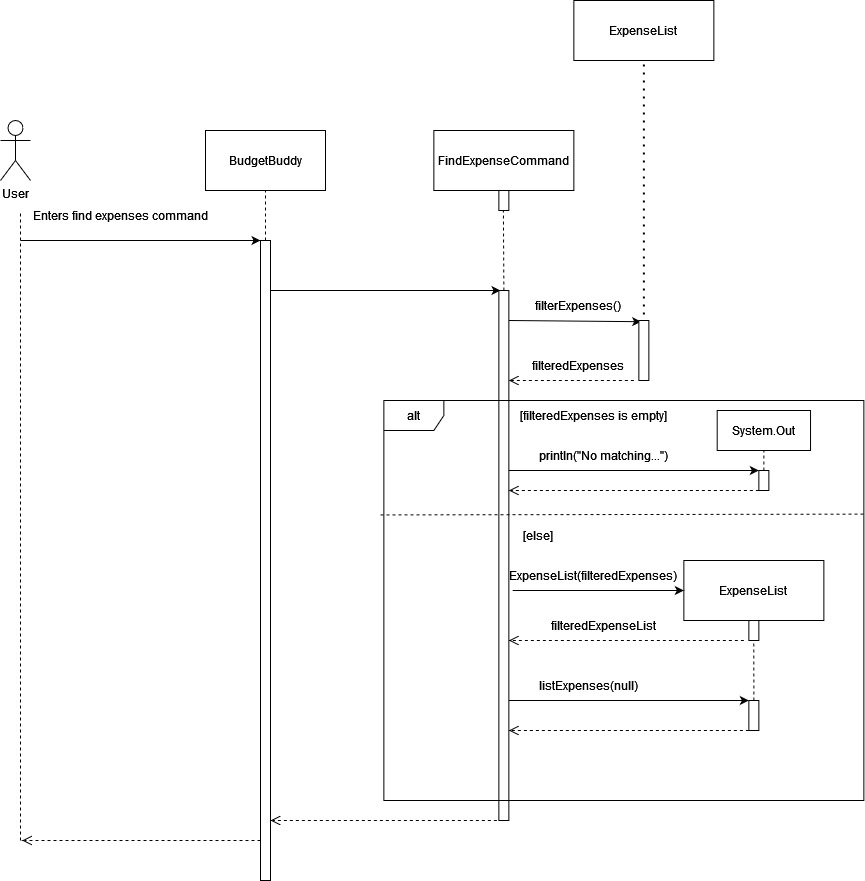
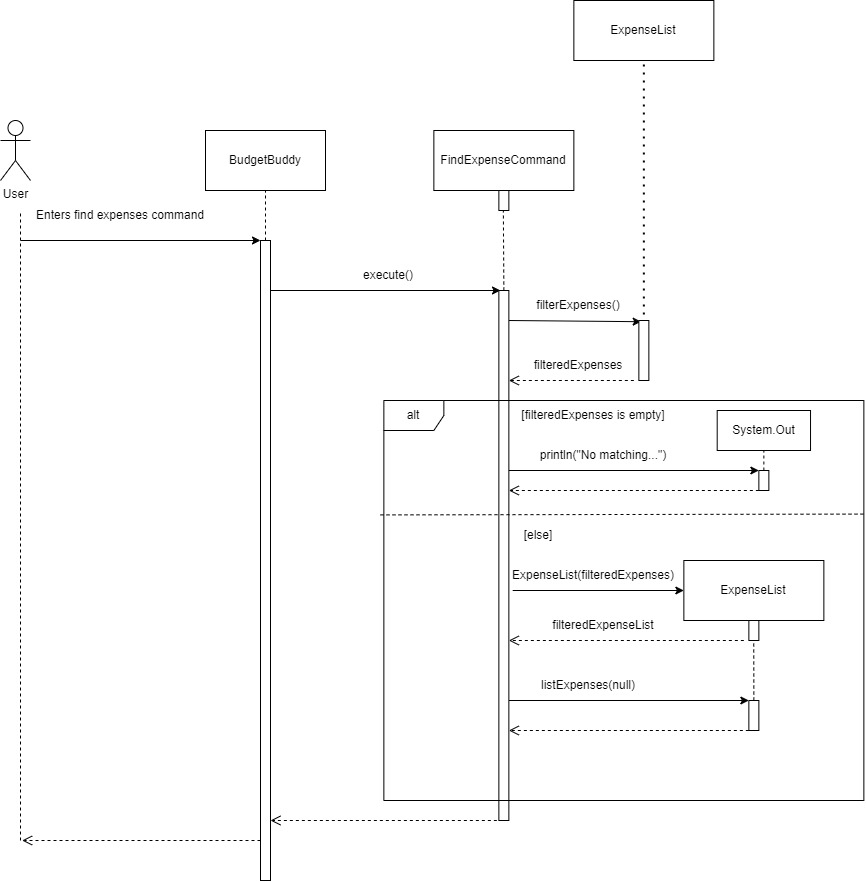
Update diagrams in DeveloperGuide

diff --git a/docs/DeveloperGuide.md b/docs/DeveloperGuide.md
@@ -100,7 +100,7 @@ This section describes how to set up the coding environment, along with the tool
 ### 3.1 Architecture
 The following diagram provides a rough overview of how BudgetBuddy is built
 
-![Diagram of overview of BudgetBuddy](diagrams/Introduction.jpg)
+![Diagram of overview of BudgetBuddy](diagrams/diagram_Introduction.jpg)
 
 `BudgetBuddy` is the main class of the application and directly interacts with the user. `BudgetBuddy` 
 passes along the input into the `Parser`. The `Parser` creates a `CommandCreator` object depending on the user's input
@@ -126,7 +126,7 @@ Here are some examples :
 The Ui Class is used to print certain elements to the CLI. In particular, it consists of the Welcome Message,
 Goodbye Message, Divider Lines and all the corresponding commands' command format.
 
-#### 3.5 CommandCreator Class
+#### 3.4 CommandCreator Class
 The CommandCreator class has multiple subclasses, which corresponds to a specific function of the application.
 Within the CommandCreator classes, it handles making sense of the user input, obtaining the relevant parameters, and finally
 creating the `Command` class to be executed.
@@ -138,12 +138,12 @@ The association between the `Command` and `CommandCreator` can be seen in their 
 create a `MenuCommand` class when its createCommand() method is called. Similarly, `FindExpensesCommandCreator` would
 create a `FindCommand` class when its createCommand() method is called.
 
-For clarity, unlike the `BudgetBudget` and `Parser` class, where only **one** instance of them is used for the entire
+For clarity, unlike the `BudgetBuddy` and `Parser` class, where only **one** instance of them is used for the entire
 application, a **new** `CommandCreator` subclass is instantiated every time a user provides an input. Hence,
 a created `CommandCreator` will always be specific to, and only handle `one` user input. This will be further illustrated in the
 UML Sequence Diagram provided in section `3.4 Command Class`
 
-#### 3.4 Command Class
+#### 3.5 Command Class
 The Command class, similar to the CommandCreator class, contains multiple subclasses, all corresponding to a specific
 function/feature of the application. Stated in section`3.5 CommandCreator Class`
 , each subclass of the `Command` Object is created by its associated `CommandCreator`. 
@@ -153,8 +153,7 @@ by its subclasses. What each Command subclass does when its `execute()` method i
 more detail in the Implementation section.
 
 For clarity, similar to the `CommandCreator` class, a **new** `Command` subclass is instantiated every time a
-user provides an input. As such a created `Command` will always be specific to, and only handle `one` user input.
-
+user provides an input. As such, a created `Command` will always be specific to, and only handle `one` user input.
 
 The following UML Sequence Diagram depicts the process of what happens
 when a user input is passed through the application, up till the point when the command gets executed :
@@ -221,15 +220,8 @@ The list provides predefined options for users to select when adding or editing 
 It helps organize expenses into meaningful groups, 
 allowing users to track and analyze their spending habits across different expense categories.
 
-This class also contains the methods to handle any user interactions with the list of expenses. The methods and a
-brief explanation on their functionality is as follows :
-
-* listExpenses(String filterCategory) :
-  * The core functionality of this class. It lists a user's total expenses, optionally filtered by category as per user
-  input.
-  * The amounts being shown are dependent on the currency being used.
-* calculateTotalExpenses() :
-  * The method used to calculate all expenses found in the expense list.
+This class also contains the methods to handle any user interactions with the list of expenses. These methods would
+be further explained in their corresponding `Implementation` sections.
 
 ##### 3.6.4 Saving
 This class holds details regarding a saving a user has. Within this class, it has 3 class-level variables :
@@ -268,24 +260,13 @@ The list provides predefined options for users to select when adding or editing 
 It helps organize savings into meaningful groups, allowing users to track and 
 manage their savings across different categories.
 
-This class also contains the methods to handle any user interactions with the list of savings. The methods and a
-brief explanation on their functionality is as follows :
-
-* `listSavings(String filterCategory, ExpenseList expenseList)` :
-  * The core functionality of this class. It prints the initial savings amount, expenses deducted, and the remaining 
-  amount. 
-  * It is able to print only the filtered category as per user input.
-  * The amounts being shown is dependent on the currency being used.
-* `findTotalSavings()` :
-  * Calculates the total savings amount by summing up the amounts of all savings.
-* `calculateRemainingSavings(double initialAmount, double totalExpenses)` :
-  * Calculates the remaining savings amount after deducting total expenses from the initial amount.
-  * Provides clarity on how much savings user has left to spend.
+This class also contains the methods to handle any user interactions with the list of savings. These methods would
+be further explained in their corresponding `Implementation` sections.
 
 ##### 3.6.6 RecurringExpenseList
 This class represents a list of recurring expenses for the Recurring Expense feature. Within this class, it has 
 1 class-level variable : `String name`. Which is used to store the name of the list. Given that its overall 
-functionality is similar to ExpenseList class, it inherits the ExpenseList class.
+functionality is similar to ExpenseList class, it **inherits** the ExpenseList class.
 
 ##### 3.6.7 RecurringExpenseLists
 This class represents the list of all lists of recurring expenses for the Recurring Expense feature. Within this class,
@@ -293,7 +274,7 @@ it has only 1 class-level variable : `ArrayList<ExpenseList> recurringExpenses`.
 ExpenseList objects. This class contains all methods required for the overall Recurring Expense feature to work. 
 The implementation of these methods would be discussed in further detail in the **Implementation** section.
 
-For clarity, the follow Class Diagram depicts the associations between RecurringExpenseLists, RecurringExpenseList and
+For clarity, the following Class Diagram depicts the associations between RecurringExpenseLists, RecurringExpenseList and
 ExpenseList.
 
 ![Class Diagram](diagrams/classDiagram_RecurringExpenseLists.jpg)
@@ -532,8 +513,11 @@ utilizes methods from the `UI` class to display the relevant menu items. The uti
 discussed in `3.4 CommandClass`, the following Sequence Diagrams would omit the initial methods prior to the 
 MenuCommandCreator being created.
 
-The following UML Sequence Diagram shows how the MenuCommandCreator for Menu Commands work, NOTING that the Parser
+The following UML Sequence Diagram shows how the MenuCommandCreator for Menu Commands work and what
+will be returned to the Parser, which will ultimately be returned to BudgetBuddy.  Note that this diagram assumes that `Parser`
 has already detected that the user input is a menu command and has initialized a MenuCommandCreator object:
+
+
 ![Sequence Diagram for MenuCommandCreator for Menu Command](diagrams/sequenceDiagram_MenuCommandCreator.jpg)
 
 The following UML Sequence Diagram shows the processes of the MenuCommand upon the call of its execute() command:
@@ -561,12 +545,12 @@ and maximum amount. This feature is orchestrated by the `FindExpensesCommand` cl
 would have initialized it with 4 variables, an `ExpenseList` object,  along with a `description`, `minAmount` , 
 `maxAmount`. The relevance of these Class Attributes in `FindExpensesCommand` is as follows : 
 
-| Class Attribute | Variable Type | Relevance                                                                 |
-|-----------------|---------------|---------------------------------------------------------------------------|
-| expenses        | ExpenseList   | ExpenseList Object containing the list of expenses which will be filtered |
-| description     | String        | The description to match against expenses in `expenses`                   |
-| minAmount       | Double        | The minimum amount matched expenses should be                             |
-| maxAmount       | Double        | The **maximum** amount matched expenses should be                         |
+| Variable Name | Variable Type | Relevance                                                                 |
+|---------------|---------------|---------------------------------------------------------------------------|
+| expenses      | ExpenseList   | ExpenseList Object containing the list of expenses which will be filtered |
+| description   | String        | The description to match against expenses in `expenses`                   |
+| minAmount     | Double        | The **minimum** amount matched expenses should be                         |
+| maxAmount     | Double        | The **maximum** amount matched expenses should be                         |
 
 
 Upon the call of the `execute()` method in `BudgetBuddy` using `command.execute()`,
@@ -583,9 +567,10 @@ discussed in `3.4 CommandClass`, the following Sequence Diagrams would omit the 
 FindCommandCreator being created.
 
 The following UML Sequence diagram below shows how FindExpensesCommandCreator works to 
-obtain the relevant inputs for the Find Feature, NOTING that the Parser has already determined the input to be a find :
+obtain the relevant inputs for the FindExpensesCommand, NOTING that the Parser has already determined the input to be a find
 expenses command, and has also created the FindExpensesCommandCreator.
-![Sequence Diagram for FindFeatureCommandCreator](diagrams/sequenceDiagram_FindCommandCreator.jpg)
+
+![Sequence Diagram for FindFeatureCommandCreator](diagrams/sequenceDiagram_FindExpensesCommandCreator.jpg)
 
 Given that multiple methods are called in `FindExpensesCommandCreator`. The following is a step-by-step explanation for the processes that occur before the FindExpensesCommand is created :
 1. `BudgetBuddy` calls `Parser#parseCommand(input)` with `input` being the entire user input.
@@ -609,8 +594,9 @@ Three variables would be initialized.
       | description   | String        | 
       | minAmount     | Double        |
       | maxAmount     | Double        |
-10. Depending on which parameters were present, the corresponding input would be extracted and placed into each variable
+10. Depending on which parameters were present, the corresponding input would be extracted from the full user input and placed into each variable
 using the `FindExpensesCommandCreator#parse*()`, where `*` represents the variable name we wish to obtain.
+11. Note that any parameters left empty, would be treated as **null**.
 11. Should the values of `minAmount` and `maxAmount` not be empty,  a check is done to ensure `minAmount` is less than
 or equals to `maxAmount`. If this check does not pass, the function immediately returns `null`
 12. Finally, `FindExpensesCommandCreator#handleFindExpensesCommand()` creates and returns a 
@@ -623,25 +609,24 @@ find expenses command upon the call of its execute() method:
 
 ![Sequence diagram for Find Feature](diagrams/sequenceDiagram_FindExpensesCommand.jpg)
 
-The following is an example of the processes that occur when the user uses the find expenses feature:
-
 
 **Important Note** : Although d/ , morethan/ and lessthan/ are optional parameters, the optional component would mean
 user has left that option empty if not in use, e.t.c `find expenses d/ morethan/ lessthan/200`. Hence, 
-unused parameters are treated a null variables instead.
+unused parameters are treated as null variables instead.
 
 **Important Note 2** : Although the UI class is also initialized, the details of its use is omitted as its functionality in the
 Find Feature is trivial. In this case, the UI class is **only** used to print dividers.
 
+The following is an example of the processes that occur when the user uses the find expenses feature:
 1. The user types `find expenses d/bruno morethan/30 lessthan/200`. This input is passed through the `Parser`
 class from `BudgetBuddy`, which constructs a `FindExpenseCommandCreator` Object. The `FindExpenseCommandCreator` then
-creates a `FindExpenseCommand` object with its variables initialized to  with `expenses : current overall ExpenseList`,
+creates a `FindExpenseCommand` object with its variables initialized to `expenses : current overall ExpenseList`,
 `description : bruno`, `minAmount : 30`, `maxAmount : 200`, by calling `FindExpenseCommandCreator#createCommand()`.
 2. `Parser` returns this created `FindExpenseCommand` Object to `BudgetBuddy` and `BudgetBuddy` calls 
 `FindExpenseCommand#execute()`
 3. `execute()` is called, which initializes a variable `filteredExpenses` of type `ArrayList<Expense>`.
 4. `execute()`then calls `ExpenseList#filterexpenses()`, which returns the filtered expenses based on the `description`,
-`minAmount` and `maxAmount` into the `filteredExpenses` variable.
+`minAmount` and `maxAmount`, into the `filteredExpenses` variable.
 5.  If `filteredExpenses` is empty, "No Matching Expenses Found" is printed and `execute` ends here.
 6. If `filteredExpenses` is not empty, `execute()` then initializes a new variable `filteredExpenseList` 
 of type `ExpenseList` with `filteredExpenses` initialized as the `expenses` Class attribute.
@@ -653,7 +638,7 @@ the overall expenses in a single command. This feature includes the creation of 
 all/each list of expenses and the removal of each list of expenses. All functions are orchestrated by the 
 `RecurringExpenseCommand` class, which would have been created by the `RecurringExpenseCommandCreator`, which is in turn
 created by the `Parser` class. When `RecurringExpenseCommand#execute()` is called by `BudgetBuddy`, it utilizes methods
-present in `ExpenseList`, `RecurringExpenseList` and `RecurringExpensesList` to facilitate the relevant features.
+present in `ExpenseList`, `RecurringExpenseList` and `RecurringExpenseLists` to facilitate the relevant features.
 
 Within the RecurringExpenseCommand, the following variables would be initialized :
 
@@ -677,16 +662,17 @@ when `RecurringExpensesCommand#execute()` is called
 
 | commandType  | Calls Method                     | Uses Methods  From                                                                                               |                                                       
 |--------------|----------------------------------|------------------------------------------------------------------------------------------------------------------|
-| newlist      | addNewList()                     | `RecurringExpensesList#addNewRecurringList()`                                                                    |
-| viewlists    | printList()                      | `RecurringExpensesList#printAllRecurringLists()`                                                                 |
-| removelist   | removeList()                     | `RecurringExpensesList#removeList()`                                                                             |
-| newexpense   | addExpenseToList()               | `RecurringExpensesList#getExpenseListAtListNumber()`, `ExpenseList#addExpense()`                                 |
-| addrec       | addRecurringExpensesToExpenses() | `RecurringExpensesList#getExpenseListAtListNumber()`, `ExpenseList#getExpenses()`, `AddExpenseCommand#execute()` |
-| viewexpenses | printExpensesAtIndex             | `RecurringExpensesList#getExpenseListAtListNumber()` , `ExpenseList#listExpenses()`                              |                             |
+| newlist      | addNewList()                     | `RecurringExpenseLists#addNewRecurringList()`                                                                    |
+| viewlists    | printList()                      | `RecurringExpenseLists#printAllRecurringLists()`                                                                 |
+| removelist   | removeList()                     | `RecurringExpenseLists#removeList()`                                                                             |
+| newexpense   | addExpenseToList()               | `RecurringExpenseLists#getExpenseListAtListNumber()`, `ExpenseList#addExpense()`                                 |
+| addrec       | addRecurringExpensesToExpenses() | `RecurringExpenseLists#getExpenseListAtListNumber()`, `ExpenseList#getExpenses()`, `AddExpenseCommand#execute()` |
+| viewexpenses | printExpensesAtIndex             | `RecurringExpenseLists#getExpenseListAtListNumber()` , `ExpenseList#listExpenses()`                              |                             |
 
-From the table above, most commandTypes have a fairly straight forward process of calling a single method from the relevant classes, and followsHowever,
+From the table above, most commandTypes have a fairly straight forward process of calling a single method from the relevant classes, and follows
 a similar process to many of the previous features too. However, the `addrec` commandType would be the most complicated to follow, given that it utilizes 3 methods from three different classes. The following
-is a UML sequence diagram to illustrate the implementation of the addRecurringExpensesToExpenses() method in `RecurringExpenseCommand`
+is a UML sequence diagram to illustrate the implementation of the addRecurringExpensesToExpenses() method in `RecurringExpenseCommand`, upon the call of the `execute()`
+from `BudgetBuddy`
 
 ![Sequence Diagram for addRecurringExpensesToExpenses()](diagrams/sequenceDiagram_RecurringExpenseCommand.jpg)
 
@@ -788,11 +774,79 @@ type fast. It also provides the ability to deal with finances on a singular plat
 
 ## Glossary
 
-* *glossary item* - Definition
+* *recurring expenses* - A set of expenses which can be added to the overall expenses at any given point in time
+* *overall expenses* - Refers to the overall expense list. Etc, the expense list which expenses get added to when performing an add expense command.
 
 ## Instructions for manual testing
 
-{Give instructions on how to do a manual product testing e.g., how to load sample data to be used for testing}
+### Displaying Commands
+1. Test Case : `menu`    
+Expected : Prints all possible menu items in the command line interface
+2. Test Case : `menu 1`  
+Expected : Prints all commands related to Manage Expenses` in the command line interface
+3. Test Case : `menu string`  
+Expected : An error message is printed in the command line interface
+4. Test Case : `menu 999`  
+Expected : An error message is printed in the command line interface
+
+### Finding an expense
+**Prerequisites** : Some expenses has been added to the overall expense.
+1. Test Case : `find expenses d/cat morethan/ lessthan/`    
+Expected : If there are expenses matching/containing "cat", the found expenses are printed. Else, message stating no matching expenses found is printed in command line interface
+2. Test Case : `find expenses d/cat morethan/20 lessthan/`  
+Expected : If there are expenses matching/containing "cat" and is more than 20, the found expenses are printed. Else, message stating no matching expenses found is printed in command line interface
+3. Test Case : `find expenses d/cat morethan/string lessthan`  
+Expected : An error message is printed in the command line interface
+
+### Creating a new list of recurring expenses
+1. Test Case : `rec newlist streaming`  
+Expected : A new list created called `streaming`
+2. Test Case : `rec newlist  `  
+Expected : An error message will be printed in the command line interface
+3. Test Case : `rec newlist |`  
+Expected : An error message will be printed in the command line interface
+
+### Listing all lists of recurring expenses
+1. Test Case : `rec viewlists`, with already added lists    
+Expected : All lists of recurring expenses will be printed in the command line interface
+2. Test Case : `rec viewlists`, with no added lists  
+Expected : Message stated there being no recurring expenses is printed in the command line interface
+3. Test Case : `rec viewlists extra`  
+Expected : `viewlists` should still work as intended, with no exceptions being thrown
+
+### Removing a list of recurring expenses
+1. Test Case : `rec removelist 1`, with a list being present at the list number `1` during `rec viewlists`    
+Expected : List located at list number 1 will be removed, and a success message is printed in the command line interface
+2. Test Case : `rec removelist string`  
+Expected : Error message will be printed in the command line interface, along with the proper command format
+3. Test Case : `rec removelist -1`  
+Expected : Error message will be printed in the command line interface
+4. Test Case : `rec removelist  `  
+Expected : Error message will be printed in the command line interface
+
+### Adding an expense into a list of recurring expenses
+1. Test Case : `rec newexpense to/1 c/Entertainment a/200 d/description`, with a list being present at list number `1`  
+Expected : Expense with details Entertainment, 200, description will be added to list at list number `1`
+2. Test Case : `rec newexpense to/1`    
+Expected : Error message will be printed in the command line interface
+3. Test Case : `rec newexpense to/string c/Entertainment a/200 d/description`  
+Expected : Error message will be printed in the command line interface
+
+### Viewing all expenses in a list of recurring expenses
+1. Test Case : `rec viewexpenses 1`, with a list being present at list number `1` and contains expenses inside  
+Expected : Prints all expenses present in the recurring expense list 1
+2. Test Case : `rec viewexpenses 1` with a list not being present  
+Expected : Error message will be printed in the command line interface  
+3. Test Case : `rec viewexpenses 1` with a list being present at list number `1`, but does not contain any expenses inside  
+Expected : Prints an empty set of expenses to command line interface, with expenses at $0
+
+### Adding all expenses in a list of recurring expenses to the overall expenses
+1. Test Case : `rec addrec 1`, with a list being present at list number `1` and contains expense inside    
+Expected : Adds all expenses present in recurring expense list 1 to the overall expenses
+2. Test Case : `rec addrec 1`, with a list being present a list number `1` but does not contain any expenses inside  
+Expected : A message is provided in the command line interface informing the user that nothing has been added
+3. Test Case : `rec addrec 1`, with a list not being present at list number `1`  
+Expected : Error message will be printed in the command line interface
 
 ### Add Expense Feature
 
